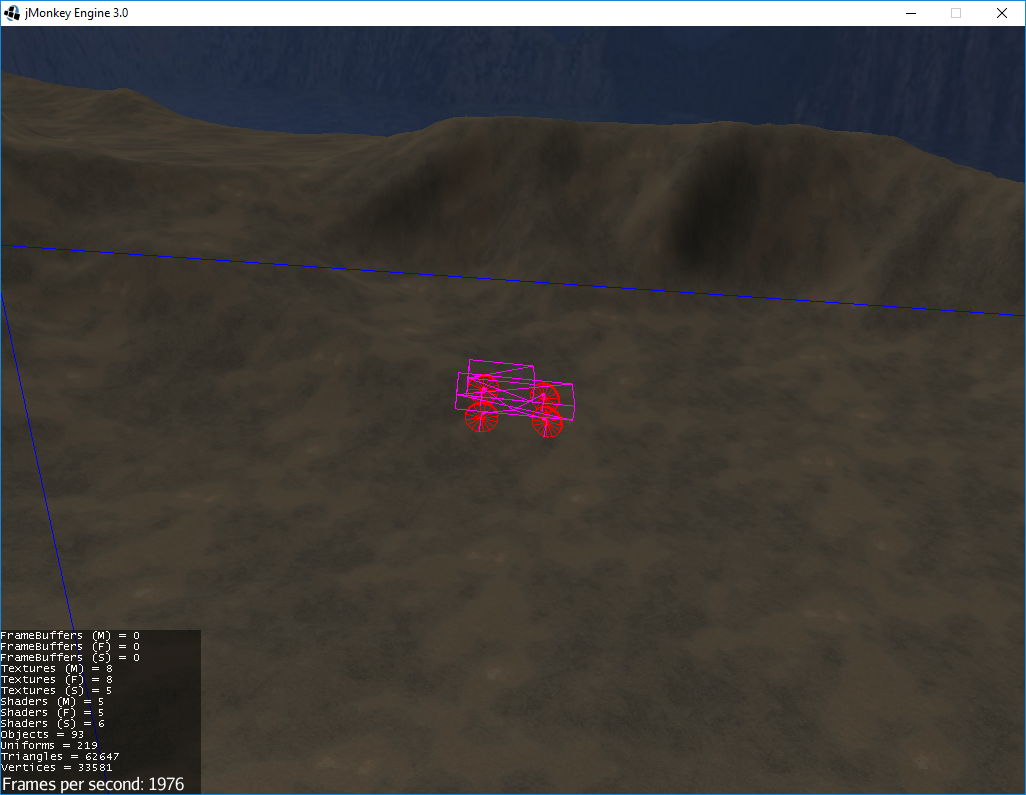
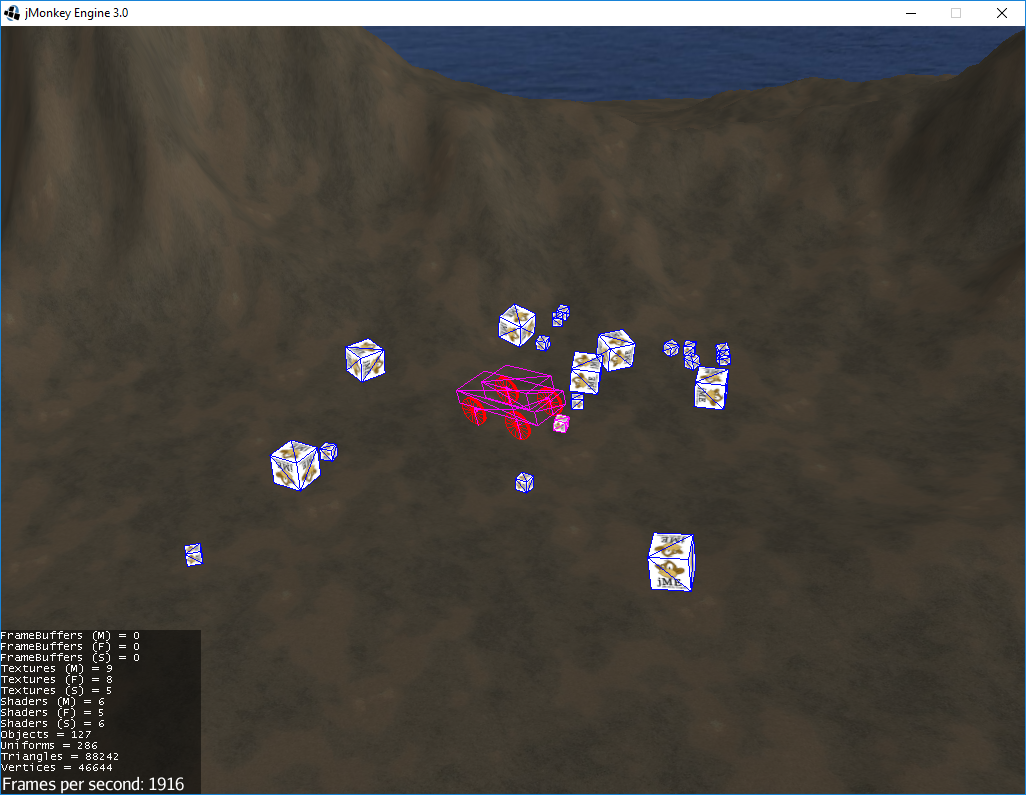
Improved camera position, added boxes to the map.

diff --git a/src/roadtrip/PhysicsTestHelper.java b/src/roadtrip/PhysicsTestHelper.java
@@ -72,38 +72,18 @@ public class PhysicsTestHelper {
         Material material = new Material(assetManager, "Common/MatDefs/Misc/Unshaded.j3md");
         material.setTexture("ColorMap", assetManager.loadTexture("Interface/Logo/Monkey.jpg"));
 
-        Box floorBox = new Box(140, 0.25f, 140);
-        Geometry floorGeometry = new Geometry("Floor", floorBox);
-        floorGeometry.setMaterial(material);
-        floorGeometry.setLocalTranslation(0, -5, 0);
-//        Plane plane = new Plane();
-//        plane.setOriginNormal(new Vector3f(0, 0.25f, 0), Vector3f.UNIT_Y);
-//        floorGeometry.addControl(new RigidBodyControl(new PlaneCollisionShape(plane), 0));
-        floorGeometry.addControl(new RigidBodyControl(0));
-        rootNode.attachChild(floorGeometry);
-        space.add(floorGeometry);
-
         //movable boxes
-        for (int i = 0; i < 12; i++) {
-            Box box = new Box(0.25f, 0.25f, 0.25f);
+        for (int i = 0; i < 20; i++) {
+            float s = i % 3 == 0 ? 1f : 0.4f;
+            Box box = new Box(s, s, s);
             Geometry boxGeometry = new Geometry("Box", box);
             boxGeometry.setMaterial(material);
-            boxGeometry.setLocalTranslation(i, 5, -3);
+            boxGeometry.setLocalTranslation(i * 1.2f, 35, -3);
             //RigidBodyControl automatically uses box collision shapes when attached to single geometry with box mesh
             boxGeometry.addControl(new RigidBodyControl(2));
             rootNode.attachChild(boxGeometry);
             space.add(boxGeometry);
         }
-
-        //immovable sphere with mesh collision shape
-        Sphere sphere = new Sphere(8, 8, 1);
-        Geometry sphereGeometry = new Geometry("Sphere", sphere);
-        sphereGeometry.setMaterial(material);
-        sphereGeometry.setLocalTranslation(4, -4, 2);
-        sphereGeometry.addControl(new RigidBodyControl(new MeshCollisionShape(sphere), 0));
-        rootNode.attachChild(sphereGeometry);
-        space.add(sphereGeometry);
-
     }
     
     public static void createPhysicsTestWorldSoccer(Node rootNode, AssetManager assetManager, PhysicsSpace space) {

diff --git a/src/roadtrip/RoadTrip.java b/src/roadtrip/RoadTrip.java
@@ -209,8 +209,10 @@ public class RoadTrip extends SimpleApplication implements ActionListener {
 
     @Override
     public void simpleUpdate(float tpf) {
-        cam.setLocation(new Vector3f(-10f, 35f, -10f));
-        cam.lookAt(vehicle.getPhysicsLocation(), Vector3f.UNIT_Y);
+        Vector3f vehicleLocation = vehicle.getPhysicsLocation();
+        Vector3f newLocation = new Vector3f(vehicleLocation).add(new Vector3f(-1f, 1.5f, 2.4f).mult(20f));
+        cam.setLocation(new Vector3f(cam.getLocation()).interpolate(newLocation, Math.min(tpf, 1f)));
+        cam.lookAt(vehicleLocation, Vector3f.UNIT_Y);
     }
 
     public void onAction(String binding, boolean value, float tpf) {

diff --git a/README.md b/README.md
@@ -6,7 +6,9 @@ A game about a journey involving vehicles and obstacles.
 ## Status
 ### DONE
 * Physics-based vehicle
+* Camera following the player
 * Hilly ground
+* Collidable objects (testing)
 
 ### TODO
 * Orbit camera
